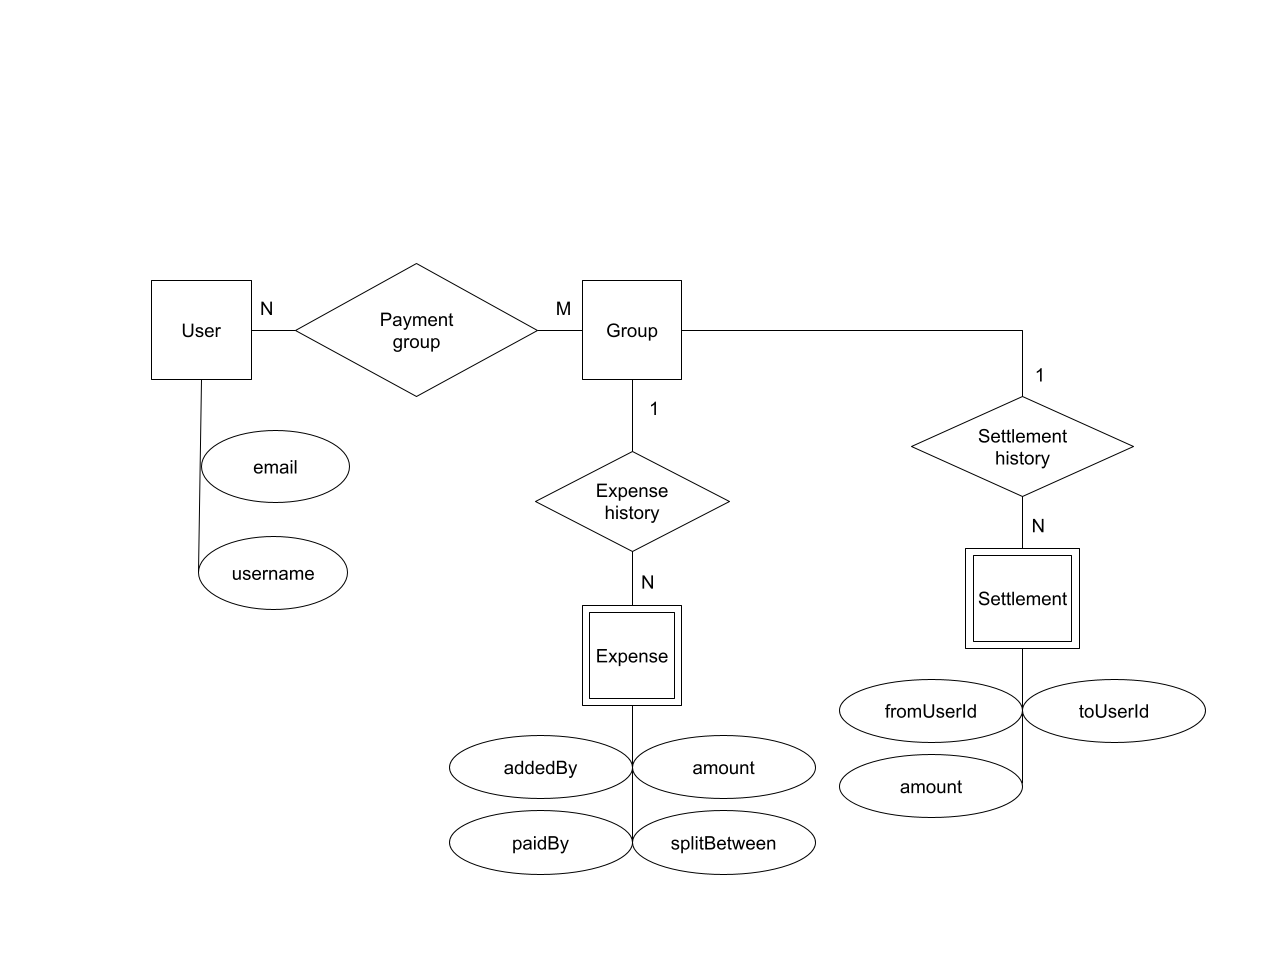
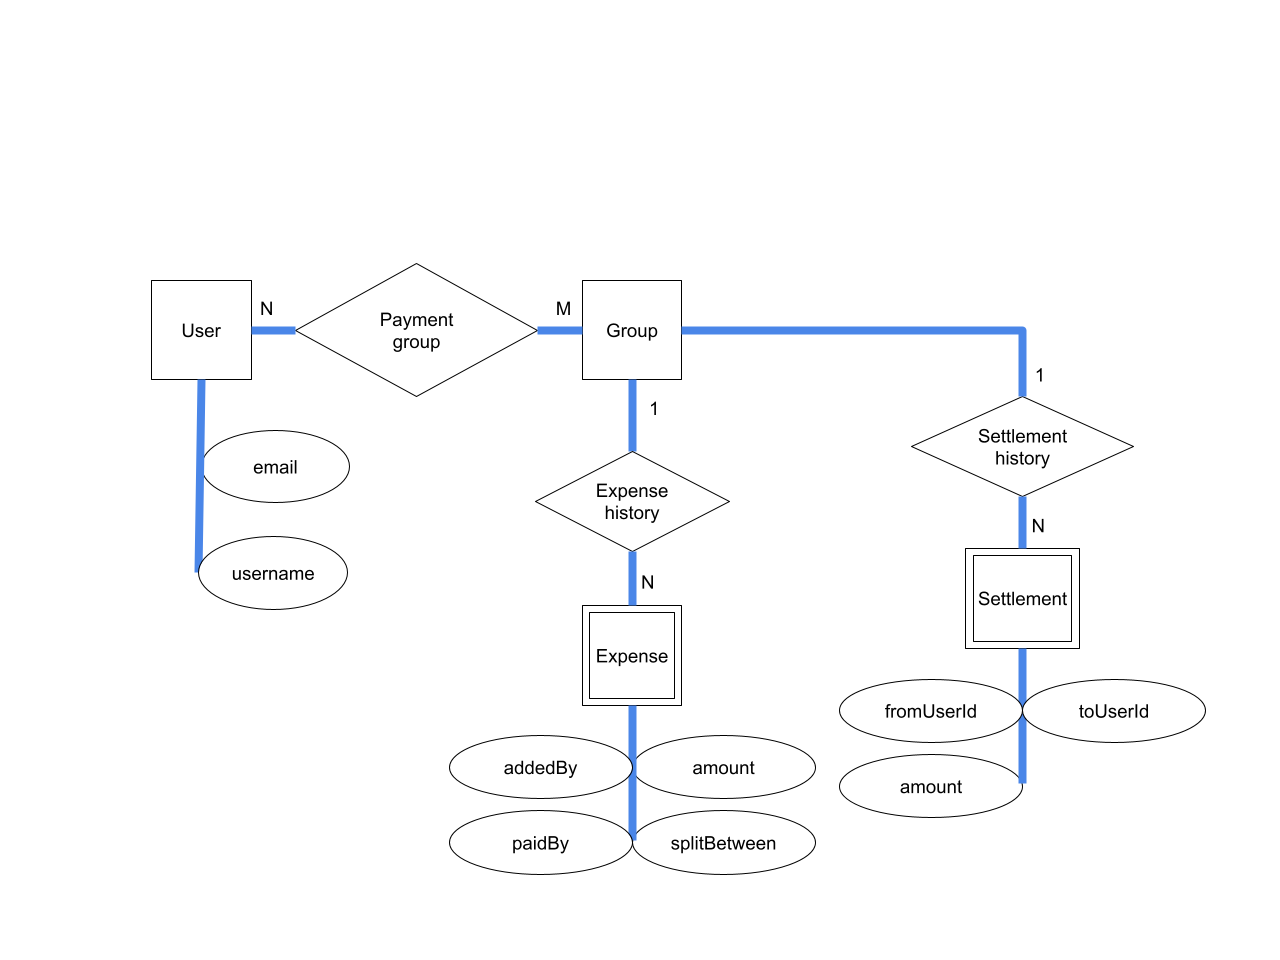
fixed readme diagram image and increased visibility of diagram

diff --git a/README.md b/README.md
@@ -39,7 +39,7 @@ To ensure the system operates properly, run `npm run test`
 
 ## UML Entity-Relation diagram
 
-!(docs/erDiagram.png)
+![](docs/erDiagram.png)
 
 ## UML Sequence Diagrams
 
